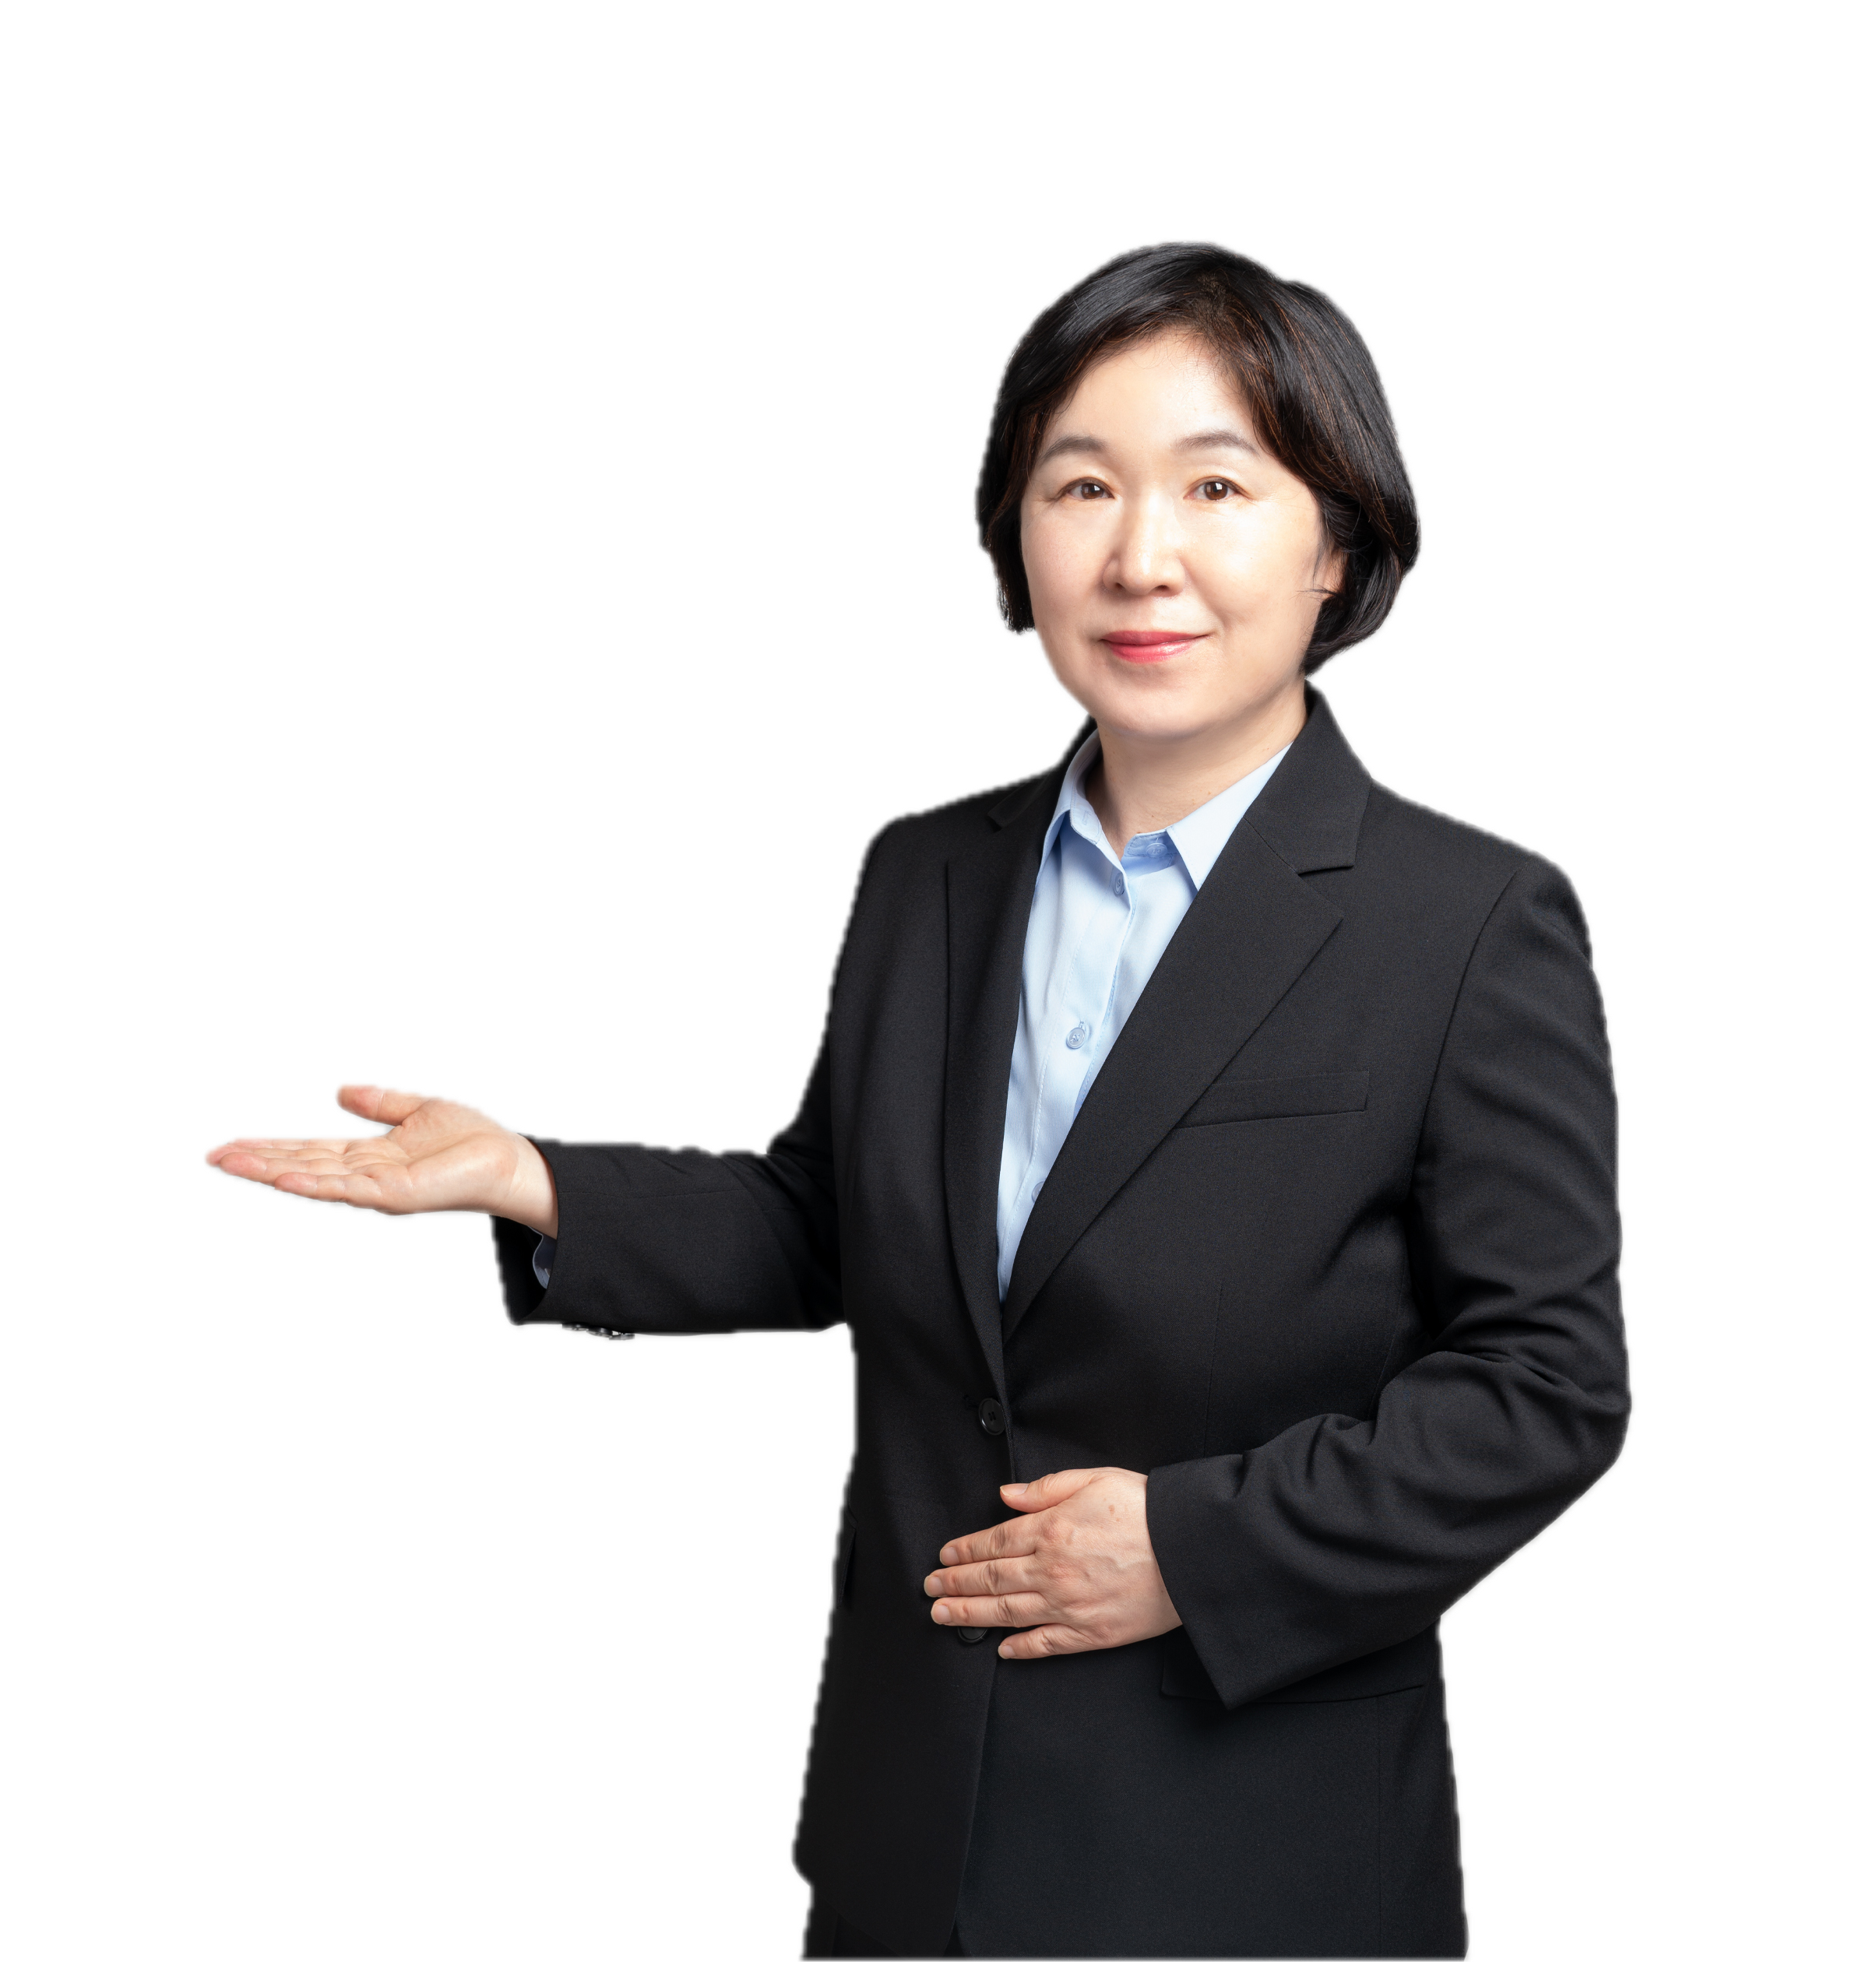
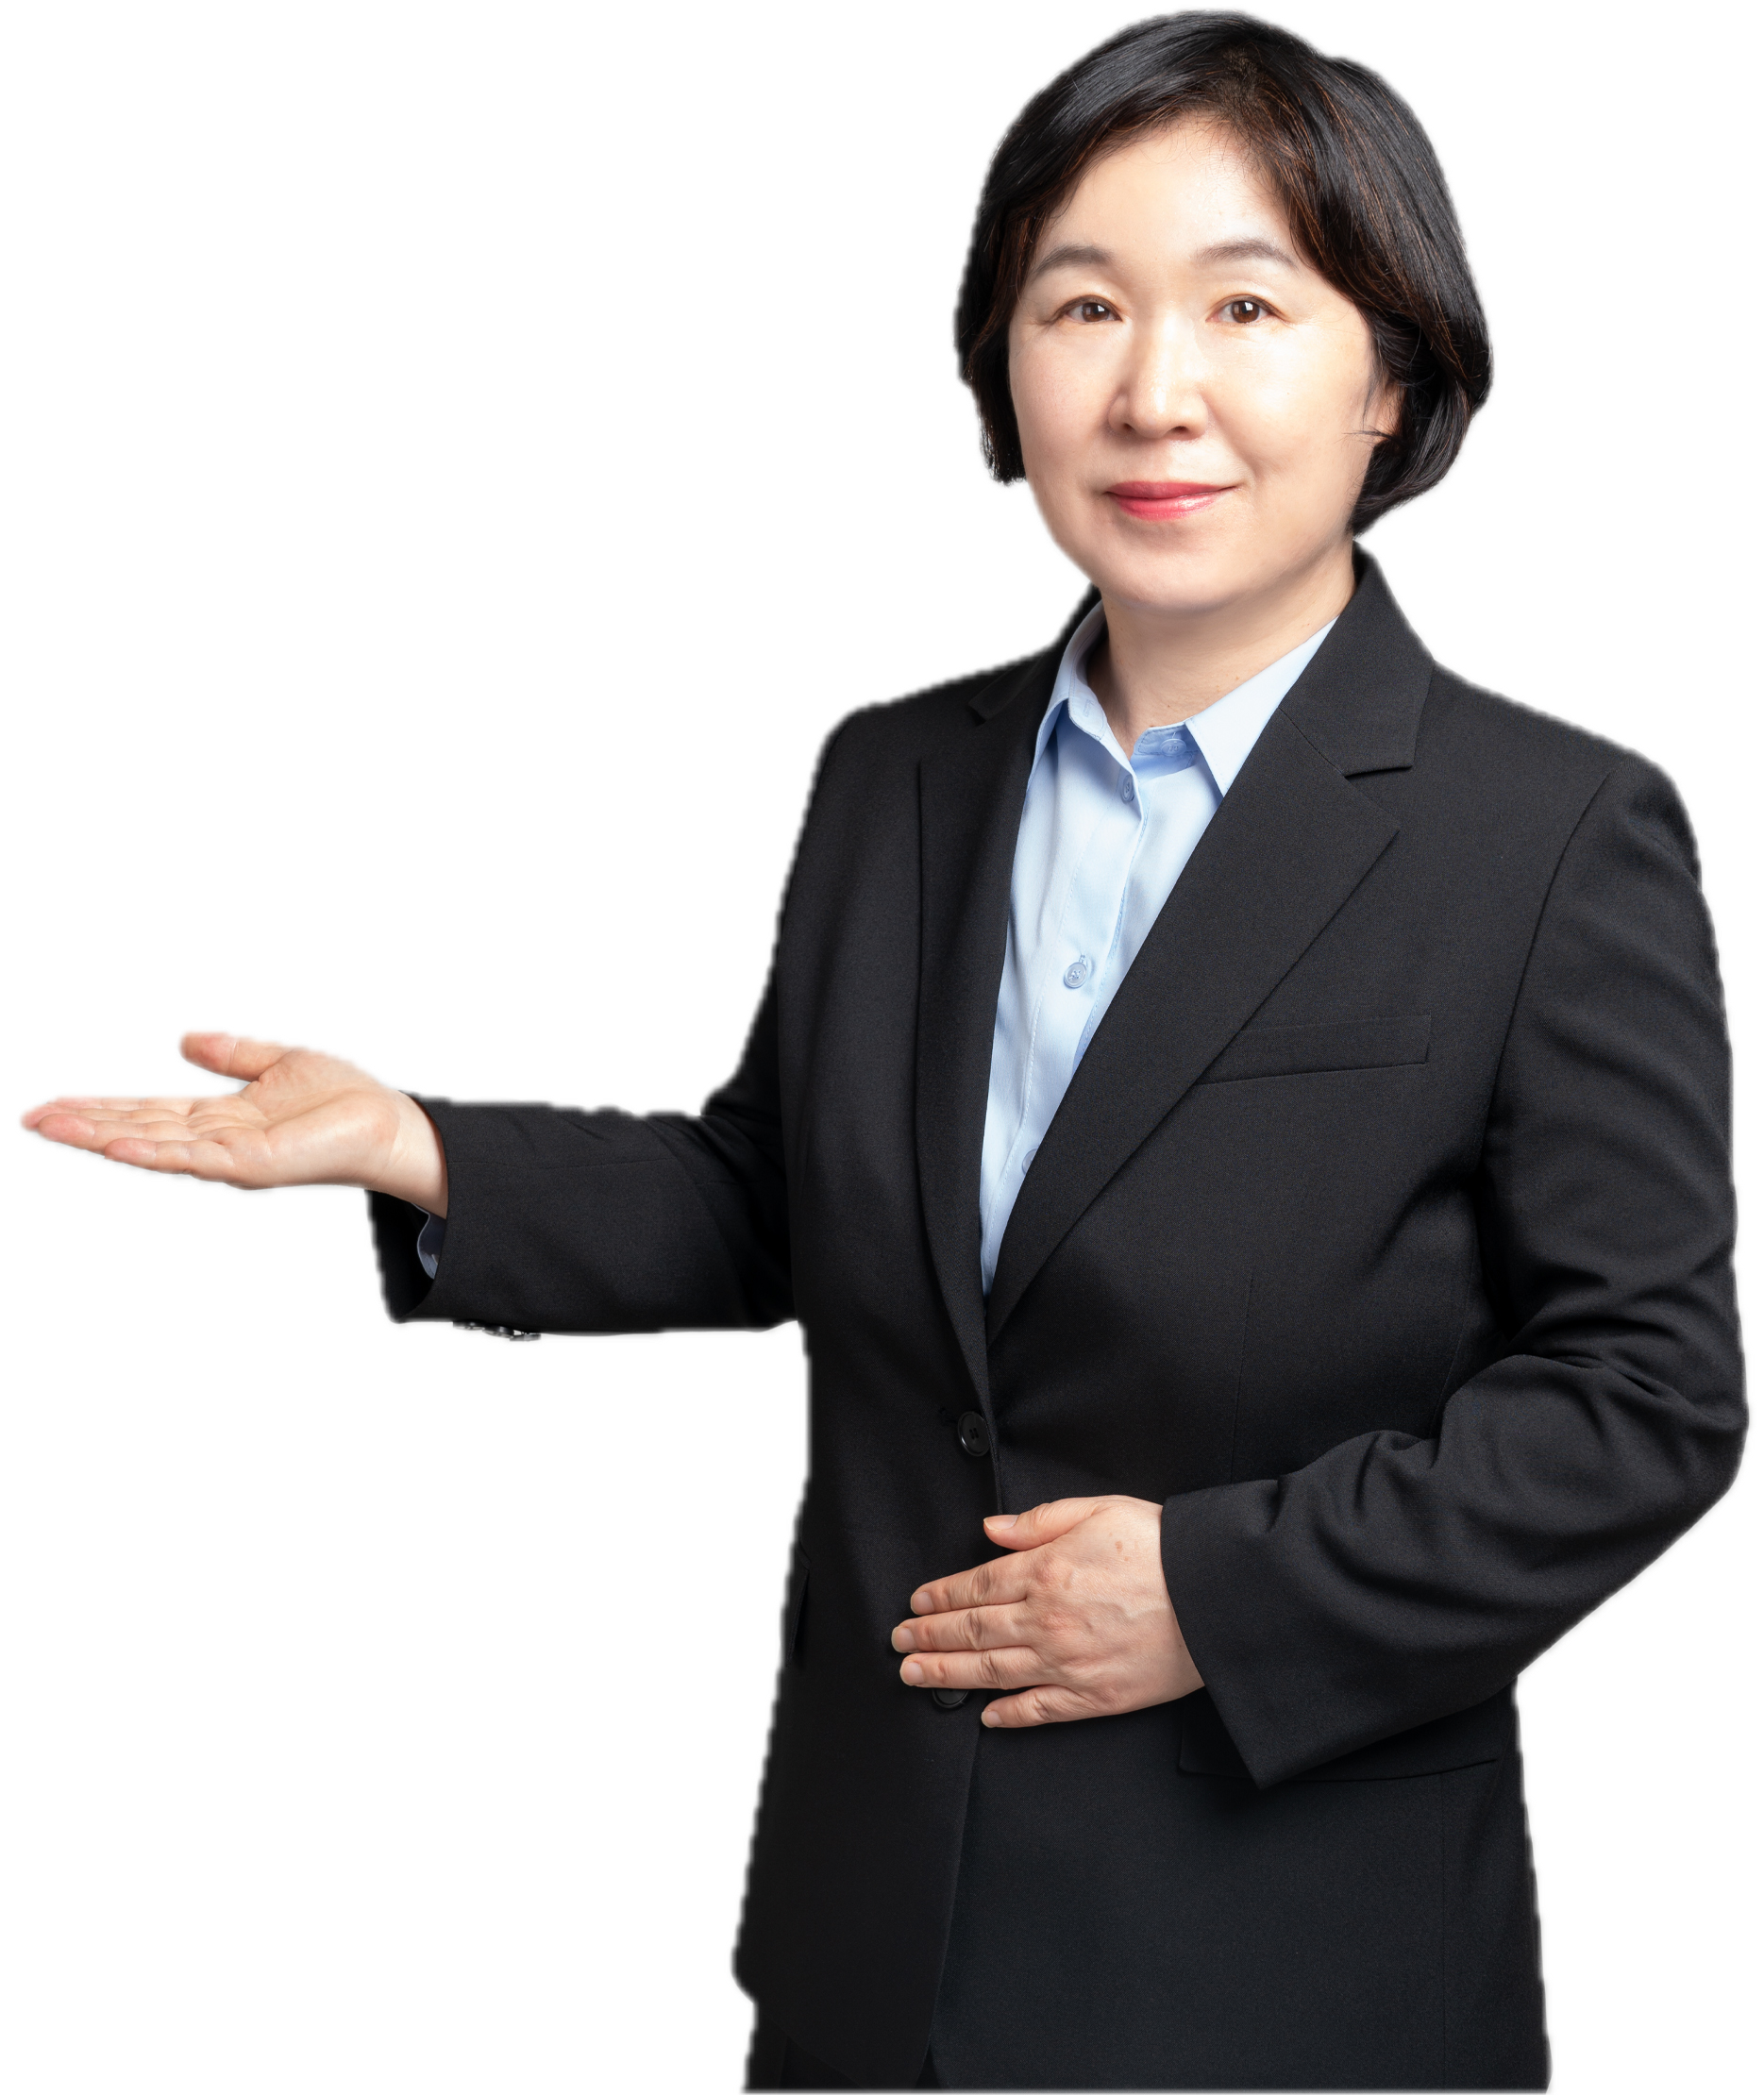
💄 feat(about/lawyer): 페이지 전체 시각 리뉴얼 + 인물 사진 교체
- Hero: 좌측 인물 사진 + 우측 3단락 인트로 카피 2-column 그리드로 재구성. 배경을 #111426 단색 + 그라데이션 마스크로 정리하고, 사진 하단 페이드와 이름·연락처 묶음을 사진 아래로 오버랩
- NarrativeSection: capability 단락 + 4.png 인물 사진을 그리드로 결합한 단일 섹션으로 축소, 회색 배경(#f7f8f8)과 사선 패턴 적용
- Career: 검사 경력을 시간 + 사무소 + 담당 분야 3열 타임라인 표로 재배치, 학력 및 자격 섹션을 별도 블록으로 분리
- career.ts: CareerQualification 타입과 "현재 - 대한변협 등록 형사법 전문 변호사", CAREER_EDUCATION 데이터 추가
- 인물 사진을 2-crop.png(Hero)·4.png(Narrative)로 교체, 미사용 3.png 제거
- page.tsx: 컨테이너 래퍼 제거 (각 섹션이 자체 컨테이너·배경 관리)

Changed region(s): [[0.0, 0.0, 0.993, 1.0], [0.6827, 0.4973, 0.7138, 0.5284], [0.6207, 0.5595, 0.6517, 0.5905]]

diff --git a/src/app/(frontend)/about/lawyer/_components/Hero.tsx b/src/app/(frontend)/about/lawyer/_components/Hero.tsx
@@ -22,70 +22,86 @@ const VCARD_HREF = `data:text/vcard;charset=utf-8,${encodeURIComponent(
   ].join('\n'),
 )}`
 
+const INTRO_PARAGRAPHS = [
+  '검사가 되겠다고 마음먹은 이유는 단순했습니다. 억울한 사람이 죄를 뒤집어쓰지 않게 하고, 죄가 있는 일에는 그에 맞는 책임이 따르도록 기록과 증거를 끝까지 살피는 사람이 필요하다고 믿었습니다.',
+  '검사로 19년을 일하며 수사의 흐름과 공판의 기준을 배웠습니다. 동시에 사건의 한가운데 선 사람에게는 기소 여부가 정해지기 전, 첫 조사와 첫 진술의 순간부터 곁에서 함께 판단해 줄 변호인이 필요하다는 사실도 보았습니다.',
+  '검사 출신 변호사로서의 제 원칙은 분명합니다. 수사기관의 시선으로 쟁점을 읽되, 의뢰인의 자리에서 말과 기록을 다시 정리합니다. 사건마다 다른 사실관계를 차분히 살피고, 다툴 지점과 설명할 지점을 구분해 변론합니다.',
+] as const
+
 export const HeroSection: FC = () => {
   return (
     <section
-      id="hero"
+      id="banner"
       aria-label="대표변호사 류남경"
-      className="relative -mt-[6rem] overflow-hidden bg-brand-deep text-white"
+      className="relative -mt-[6rem] overflow-hidden bg-[#111426] text-brand-deep-foreground"
     >
-      {/* 우측 사진 — 배경처럼 처리 */}
-      <div
-        aria-hidden
-        className="absolute inset-y-0 right-0 hidden w-1/2 lg:block"
-      >
-        <Image
-          src="/ryu-profile/1.png"
-          alt=""
-          fill
-          priority
-          sizes="50vw"
-          className="object-cover object-center"
-        />
-        <div className="absolute inset-0 bg-gradient-to-r from-brand-deep via-brand-deep/40 to-transparent" />
-      </div>
+      <div className="absolute inset-0 bg-[linear-gradient(180deg,rgba(10,12,22,0.12)_0%,rgba(17,20,38,0)_36%,#111426_100%)]" />
+      <div className="absolute inset-y-0 left-0 hidden w-1/2 bg-[linear-gradient(90deg,rgba(17,20,38,0.34)_0%,rgba(17,20,38,0)_100%)] md:block" />
 
-      {/* 좌측 텍스트 */}
-      <div className="container relative z-10 pt-[10rem] pb-[6rem] lg:pt-[12rem] lg:pb-[8rem]">
-        <div className="max-w-2xl">
-          <p className="text-label-1 text-brand-gold">
-            법무법인 인유 창원사무소
-          </p>
+      <div className="container relative z-10 grid gap-12 pt-36 pb-28 md:grid-cols-[minmax(0,18rem)_minmax(0,1fr)] md:items-end md:gap-10 md:pt-40 md:pb-36 lg:grid-cols-[minmax(0,0.9fr)_minmax(0,1.1fr)] lg:max-w-[calc(71.25rem+4rem)] lg:gap-24 lg:pt-44 lg:pb-44">
+        <div className="flex flex-col items-center md:items-start">
+          <div className="relative h-[25rem] w-full max-w-[21rem] overflow-hidden md:h-[27rem] md:w-[18rem] md:max-w-none lg:h-[34rem] lg:w-[24rem]">
+            <Image
+              src="/ryu-profile/2-crop.png"
+              alt="대표변호사 류남경"
+              fill
+              priority
+              sizes="(min-width: 1024px) 24rem, (min-width: 768px) 18rem, 21rem"
+              className="object-contain object-bottom md:object-left-bottom"
+            />
+            <div
+              aria-hidden
+              className="pointer-events-none absolute inset-x-0 bottom-0 h-28 bg-[linear-gradient(180deg,rgba(17,20,38,0)_0%,rgba(17,20,38,0.68)_56%,#111426_100%)] md:h-32 lg:h-40"
+            />
+          </div>
 
-          <h1 className="text-display-1 font-bold">대표 변호사 류남경</h1>
+          <div className="relative z-10 -mt-14 w-full text-center md:-mt-14 md:text-left lg:-mt-20">
+            <h1 className="text-display-1 font-medium">
+              류남경
+            </h1>
+            <p className="mt-5 text-label-1 font-medium text-brand-gold md:text-headline-2">
+              대표변호사
+            </p>
 
-          <ul className="mt-10 space-y-3">
-            <li>
-              <a
-                href={PHONE_HREF}
-                aria-label={`사무소 전화 ${CONTACT.office}`}
-                className="inline-flex items-center gap-3 text-body-1 text-white/90 transition-colors hover:text-brand-gold hover:underline hover:underline-offset-4"
-              >
-                <Phone aria-hidden className="h-5 w-5 shrink-0 text-brand-gold" />
-                <span>{CONTACT.office}</span>
-              </a>
-            </li>
-            <li>
-              <a
-                href={MAIL_HREF}
-                aria-label={`이메일 ${CONTACT.email}`}
-                className="inline-flex items-center gap-3 text-body-1 text-white/90 transition-colors hover:text-brand-gold hover:underline hover:underline-offset-4"
-              >
-                <Mail aria-hidden className="h-5 w-5 shrink-0 text-brand-gold" />
-                <span>{CONTACT.email}</span>
-              </a>
-            </li>
-            <li>
-              <a
-                href={VCARD_HREF}
-                aria-label="대표변호사 연락처 저장 (vCard)"
-                className="inline-flex items-center gap-3 text-body-1 text-white/90 transition-colors hover:text-brand-gold hover:underline hover:underline-offset-4"
-              >
-                <UserPlus aria-hidden className="h-5 w-5 shrink-0 text-brand-gold" />
-                <span>연락처 저장</span>
-              </a>
-            </li>
-          </ul>
+            <ul className="text-body-1 mx-auto mt-7 w-fit space-y-4 text-left font-light text-brand-deep-foreground/90 md:mx-0 md:text-headline-1">
+              <li>
+                <a
+                  href={PHONE_HREF}
+                  aria-label={`사무소 전화 ${CONTACT.office}`}
+                  className="inline-flex items-center justify-start gap-3 transition-colors hover:text-brand-gold hover:underline hover:underline-offset-4"
+                >
+                  <Phone aria-hidden className="h-4 w-4 shrink-0 text-brand-gold" />
+                  <span>{CONTACT.office}</span>
+                </a>
+              </li>
+              <li>
+                <a
+                  href={MAIL_HREF}
+                  aria-label={`이메일 ${CONTACT.email}`}
+                  className="inline-flex items-center justify-start gap-3 transition-colors hover:text-brand-gold hover:underline hover:underline-offset-4"
+                >
+                  <Mail aria-hidden className="h-4 w-4 shrink-0 text-brand-gold" />
+                  <span>{CONTACT.email}</span>
+                </a>
+              </li>
+              <li>
+                <a
+                  href={VCARD_HREF}
+                  aria-label="대표변호사 연락처 저장 (vCard)"
+                  className="inline-flex items-center justify-start gap-3 transition-colors hover:text-brand-gold hover:underline hover:underline-offset-4"
+                >
+                  <UserPlus aria-hidden className="h-4 w-4 shrink-0 text-brand-gold" />
+                  <span>연락처 저장</span>
+                </a>
+              </li>
+            </ul>
+          </div>
+        </div>
+
+        <div className="space-y-6 text-body-1-reading font-light text-brand-deep-foreground/90 md:self-center md:text-body-2-reading lg:space-y-7 lg:pl-2 lg:text-headline-1">
+          {INTRO_PARAGRAPHS.map((paragraph) => (
+            <p key={paragraph}>{paragraph}</p>
+          ))}
         </div>
       </div>
     </section>

diff --git a/src/app/(frontend)/about/lawyer/_components/Career.tsx b/src/app/(frontend)/about/lawyer/_components/Career.tsx
@@ -5,53 +5,71 @@ import {
   CAREER_QUALIFICATIONS,
 } from '../_data/career'
 
-const formatPeriod = (from: number, to?: number) =>
-  to ? `${from}~${to}` : String(from)
+const formatPeriod = (from: number, to?: number) => (to ? `${from}~${to}` : String(from))
 
 export const CareerSection: FC = () => {
   return (
     <section
       id="career"
       aria-labelledby="career-title"
-      className="mx-auto max-w-3xl"
+      className="scroll-mt-24 border-t border-border/70 bg-[#f7f8f8] py-section text-foreground"
     >
-      
-      <h2 id="career-title" className="mt-4 text-title-2 font-semibold">
-        주요 경력
+      <div className="container">
+        <div className="grid gap-8 pb-10">
+          <div>
+            <h2 id="career-title" className="mt-4 break-keep text-display-2">
+              주요 경력
             </h2>
-
-      <div className="mt-12 space-y-12">
-        {/* 자격 */}
-        <div>
-          <p className="text-heading-1 text-brand-gold">자격</p>
-          <dl className="mt-4 space-y-3 text-body-1">
-            {CAREER_QUALIFICATIONS.map((q) => (
-              <div key={q.year} className="flex gap-6">
-                <dt className="w-24 shrink-0 font-medium tabular-nums">
-                  {q.year}
-                </dt>
-                <dd>{q.text}</dd>
-              </div>
-            ))}
-          </dl>
+          </div>
         </div>
 
-        {/* 검사 경력 */}
-        <div>
-          <p className="text-heading-1 text-brand-gold">검사 경력</p>
-          <dl className="mt-4 space-y-3 text-body-1">
+        <div className="mt-14 grid gap-12 lg:grid-cols-[minmax(12rem,0.28fr)_minmax(0,1fr)] lg:gap-16">
+          <div>
+            <h3 className="text-title-3">검사 경력</h3>
+          </div>
+
+          <ol className="divide-y divide-border border-y border-border">
             {CAREER_ENTRIES.map((entry) => (
-              <div
+              <li
                 key={`${entry.from}-${entry.office}`}
-                className="flex gap-6"
+                className="grid gap-3 py-5 md:grid-cols-[8.5rem_minmax(0,1fr)] md:gap-8"
               >
-                <dt className="w-24 shrink-0 font-medium tabular-nums">
+                <time className="text-headline-2 tabular-nums">
                   {formatPeriod(entry.from, entry.to)}
-                </dt>
-                <dd>{entry.office}</dd>
-              </div>
+                </time>
+                <div>
+                  <p className="break-keep text-headline-1">{entry.office}</p>
+                  {entry.fields && (
+                    <p className="mt-2 break-keep text-body-2-reading text-muted-foreground">
+                      {entry.fields.join(' · ')}
+                    </p>
+                  )}
+                </div>
+              </li>
             ))}
-          </dl>
+          </ol>
+        </div>
+
+        <div className="mt-14 grid gap-12 lg:grid-cols-[minmax(12rem,0.28fr)_minmax(0,1fr)] lg:gap-16">
+          <div>
+            <h3 className="text-title-3">학력 및 자격</h3>
+          </div>
+
+          <div className="grid gap-8 border-y border-border py-6 md:grid-cols-2">
+            <div>
+              <p className="text-label-2">자격</p>
+              <dl className="mt-4 space-y-3">
+                {CAREER_QUALIFICATIONS.map((q) => (
+                  <div key={q.text} className="grid grid-cols-[5rem_1fr] gap-4">
+                    <dt className="text-body-1 tabular-nums">
+                      {q.year}
+                    </dt>
+                    <dd className="break-keep text-body-1 text-muted-foreground">{q.text}</dd>
+                  </div>
+                ))}
+              </dl>
+            </div>
+          </div>
         </div>
       </div>
     </section>

diff --git a/src/app/(frontend)/about/lawyer/_components/NarrativeSection.tsx b/src/app/(frontend)/about/lawyer/_components/NarrativeSection.tsx
@@ -1,28 +1,52 @@
+import Image from 'next/image'
 import type { FC } from 'react'
 
 import { NARRATIVES } from '../_data/narratives'
 
 export const NarrativeSection: FC = () => {
+  const [capability, region] = NARRATIVES
+
   return (
-    <section aria-label="변호사 이야기" className="mx-auto max-w-3xl space-y-section-inner">
-      {NARRATIVES.map((narrative) => {
-        const titleId = `${narrative.id}-title`
-        return (
-          <article key={narrative.id} id={narrative.id} aria-labelledby={titleId}>
-            <p className="text-label-1 text-brand-gold">{narrative.overline}</p>
-
-            <h2 id={titleId} className="mt-4 text-title-2 font-semibold">
-              {narrative.title}
+    <section
+      id="experience"
+      aria-labelledby="experience-title"
+      className="relative overflow-visible bg-[#f7f8f8] py-section text-foreground before:absolute before:inset-0 before:bg-[repeating-linear-gradient(116deg,transparent_0,transparent_34px,rgba(16,20,38,0.025)_35px,transparent_38px)] before:content-['']"
+    >
+      <div className="container relative z-10 lg:max-w-[calc(71.25rem+4rem)]">
+        <div className="grid gap-10 md:grid-cols-[minmax(0,1fr)_minmax(18rem,0.84fr)] md:items-end md:gap-x-16 md:gap-y-12 lg:gap-x-24">
+          <div className="md:col-start-1 md:row-start-1 md:pb-2">
+            <h2
+              id="experience-title"
+              className="break-keep text-display-1 font-medium before:mb-6 before:block before:h-1 before:w-20 before:bg-brand-gold before:content-['']"
+            >
+              {capability.title}
             </h2>
+          </div>
 
-            <div className="mt-10 space-y-6 text-body-1-reading">
-              {narrative.paragraphs.map((paragraph, i) => (
-                <p key={i}>{paragraph}</p>
+          <div className="relative mx-auto aspect-[0.842] w-full max-w-[24rem] overflow-hidden md:col-start-2 md:row-span-2 md:row-start-1 md:max-w-none md:self-center">
+            <Image
+              src="/ryu-profile/4.png"
+              alt="류남경 대표변호사"
+              fill
+              sizes="(min-width: 1024px) 30rem, (min-width: 768px) 38vw, 100vw"
+              className="object-contain object-bottom"
+            />
+          </div>
+
+          <div className="grid gap-10 break-keep text-body-1-reading text-foreground/90 md:col-start-1 md:row-start-2 md:gap-6 lg:text-headline-2">
+            <div className="space-y-6">
+              {capability.paragraphs.slice(0, 2).map((paragraph) => (
+                <p key={paragraph}>{paragraph}</p>
               ))}
             </div>
-          </article>
-        )
-      })}
+
+            <div className="space-y-6">
+              <p>{region.paragraphs[0]}</p>
+              <p>{capability.paragraphs[4]}</p>
+            </div>
+          </div>
+        </div>
+      </div>
     </section>
   )
 }

diff --git a/src/app/(frontend)/about/lawyer/_data/career.ts b/src/app/(frontend)/about/lawyer/_data/career.ts
@@ -5,6 +5,17 @@ export type CareerEntry = {
   fields?: readonly string[]
 }
 
+export type CareerQualification = {
+  year: number | '현재'
+  text: string
+}
+
+export const CAREER_CURRENT_POSITION = {
+  from: 2024,
+  office: '법무법인 인유 창원사무소',
+  role: '대표변호사',
+} as const
+
 // 최근 → 과거 역순. 출처: docs/01-profile/career-timeline.md
 // 2013–2014 공백 기간은 wireframe 단계에서 일단 생략 (IA 보류)
 export const CAREER_ENTRIES: readonly CareerEntry[] = [
@@ -44,28 +55,13 @@ export const CAREER_ENTRIES: readonly CareerEntry[] = [
     from: 2017,
     to: 2019,
     office: '부산지방검찰청 서부지청',
-    fields: [
-      '성폭력',
-      '가정폭력',
-      '아동·청소년보호',
-      '금융',
-      '조세',
-      '기술유출',
-      '영장',
-    ],
+    fields: ['성폭력', '가정폭력', '아동·청소년보호', '금융', '조세', '기술유출', '영장'],
   },
   {
     from: 2015,
     to: 2017,
     office: '부산지방검찰청',
-    fields: [
-      '성폭력 합의부 공판',
-      '국민참여재판',
-      '조세',
-      '금융',
-      '다중피해범죄',
-      '영장',
-    ],
+    fields: ['성폭력 합의부 공판', '국민참여재판', '조세', '금융', '다중피해범죄', '영장'],
   },
   { from: 2012, office: '전주지방검찰청' },
   {
@@ -79,7 +75,10 @@ export const CAREER_ENTRIES: readonly CareerEntry[] = [
 ] as const
 
 // 표 밑 별도 1행
-export const CAREER_QUALIFICATIONS = [
+export const CAREER_QUALIFICATIONS: readonly CareerQualification[] = [
+  { year: '현재', text: '대한변협 등록 형사법 전문 변호사' },
   { year: 2006, text: '사법연수원 35기 수료' },
   { year: 2002, text: '사법시험 제44회 합격' },
 ] as const
+
+export const CAREER_EDUCATION = ['전남대학교 법학과', '광주 동아여자고등학교'] as const

diff --git a/src/app/(frontend)/about/lawyer/page.tsx b/src/app/(frontend)/about/lawyer/page.tsx
@@ -4,7 +4,7 @@ export default function LawyerAboutPage() {
   return (
     <>
       <HeroSection />
-      <main className="container py-section space-y-section">
+      <main id="main" className="overflow-visible">
         <NarrativeSection />
         <CareerSection />
       </main>